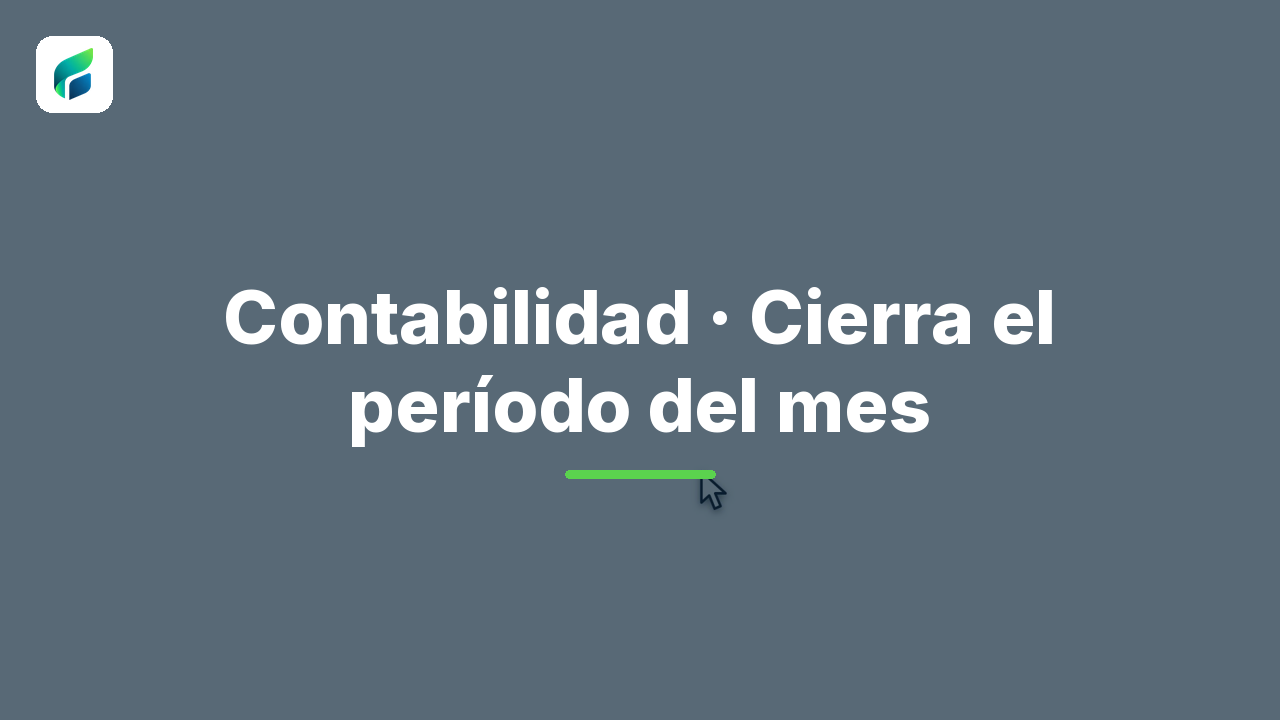
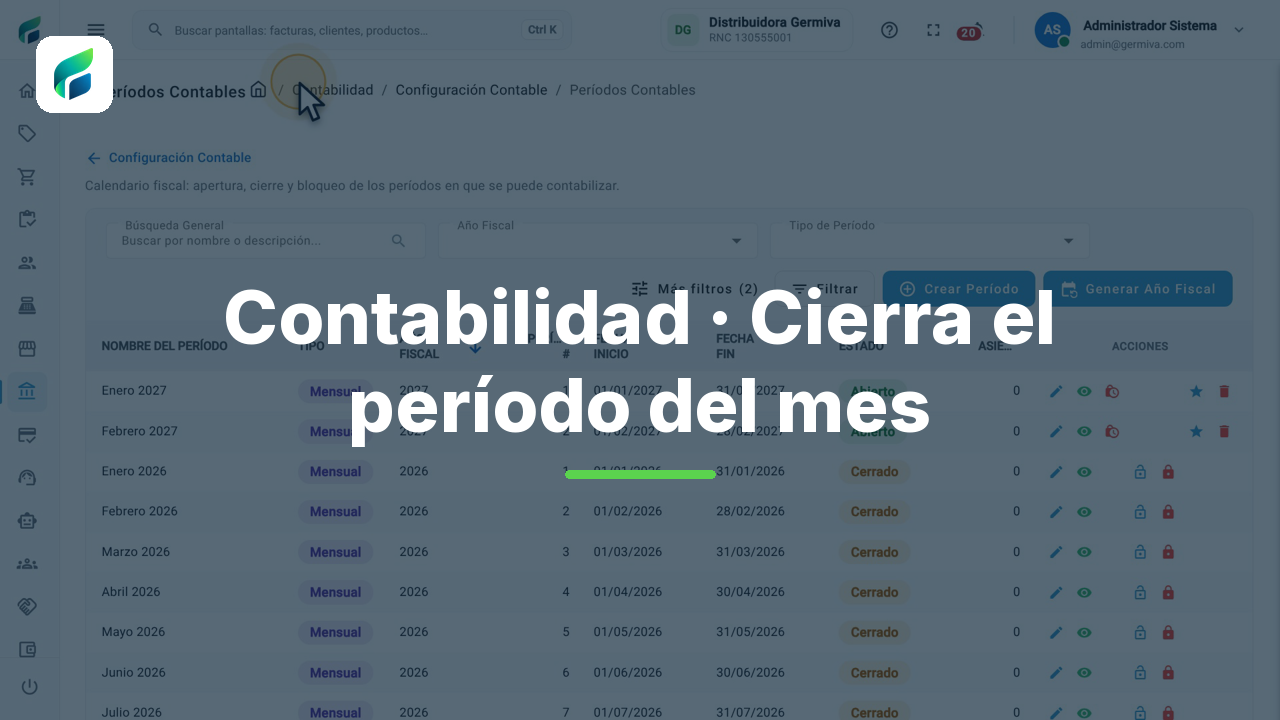
feat(motor): clave opcional portada_s para elegir el fotograma de la miniatura
A 1,5 s del primer paso una pantalla lenta todavía está en blanco o sin
fuentes, y la miniatura salía sin imagen (videos 4, 5 y 6 de Contabilidad).
Se aplica a _portada y a _portada_limpia; sin la clave nada cambia.
Videos 4-6 vueltos a montar con su miniatura.

diff --git a/tutorial/montar_video.py b/tutorial/montar_video.py
@@ -197,12 +197,12 @@ def _rotulo_conf(guion):
     return {"segundos": float((r if isinstance(r, dict) else {}).get("segundos", 3.5))}
 
 
-def _portada_limpia(seg, carpeta, barra, destino_png):
+def _portada_limpia(seg, carpeta, barra, destino_png, segundo=1.5):
     """Portada SIN rótulo: el mismo cuadro que `_portada` toma del primer clip
     (1,5 s), sacado del maestro con la barra (si la hay) y sin el rótulo, para
     que la miniatura no cambie al encender `rotulo_paso`. No reaplica el zoom:
     a 1,5 s del primer paso la cámara está en el plano general."""
-    entradas = ["-ss", f"{seg['inicio']:.3f}", "-t", "1.534", "-i", str(carpeta / seg["master"])]
+    entradas = ["-ss", f"{seg['inicio']:.3f}", "-t", f"{segundo + 0.034:.3f}", "-i", str(carpeta / seg["master"])]
     if barra.exists():
         entradas += ["-i", str(barra)]
         filtro = f"[0:v]scale={ANCHO}:{ALTO}[z];[z][1:v]overlay=0:0[v]"
@@ -427,10 +427,13 @@ def _srt(entradas, destino, inicio=0.0):
     destino.write_text("\n".join(lineas), encoding="utf-8")
 
 
-def _portada(clips, salida):
-    """Un fotograma real del primer clip de pantalla, para la miniatura."""
+def _portada(clips, salida, segundo=1.5):
+    """Un fotograma real del primer clip de pantalla, para la miniatura.
+
+    `segundo` sale de la clave opcional `portada_s` del guion: a 1,5 s una
+    pantalla lenta todavía está en blanco y la miniatura queda sin imagen."""
     destino = salida / "grabacion" / "portada.png"
-    subprocess.run(["ffmpeg", "-y", "-loglevel", "error", "-threads", "2", "-ss", "1.5", "-i", str(clips[0]),
+    subprocess.run(["ffmpeg", "-y", "-loglevel", "error", "-threads", "2", "-ss", str(segundo), "-i", str(clips[0]),
                     "-frames:v", "1", str(destino)], check=True)
     return destino
 
@@ -548,7 +551,8 @@ def montar(guion, salida):
                 portada = destino
                 if rotulo:  # la miniatura sale del cuadro SIN rótulo
                     portada_png = _portada_limpia(seg, carpeta, barra,
-                                                  salida / "grabacion" / "portada.png")
+                                                  salida / "grabacion" / "portada.png",
+                                                  guion.get("portada_s", 1.5))
         offset += seg["duracion"]
         rutas.append(destino)
         side = narrar.sidecar(salida, pid) or {}
@@ -591,7 +595,8 @@ def montar(guion, salida):
         duraciones[0] += entrada_s
         duraciones[-1] += cierre_s
     publicar(guion, salida, duraciones, 0.0, mapa_priv, sufijo="-video",
-             portada=(portada_png or _portada([portada], salida)) if portada else None)
+             portada=(portada_png or _portada([portada], salida, guion.get("portada_s", 1.5)))
+             if portada else None)
 
     from .verificar import informe
     ruta, avisos = informe(guion, salida, video=cuerpo or final)

diff --git a/GRABACION.md b/GRABACION.md
@@ -128,6 +128,8 @@ solo donde hace falta una aclaración**.
 ```jsonc
 {
   "spa": true,              // navegación interna sin recargar la app (por defecto)
+  "portada_s": 8,           // segundo del primer paso del que sale la miniatura (por defecto 1.5;
+                            // súbelo si la primera pantalla tarda en cargar y la miniatura sale en blanco)
   "ruta_neutra": "/",       // por dónde pasar para «volver» a la misma ruta y limpiar filtros
   "pasos": [{
     "navegar": "/health-insurance/agreements",
